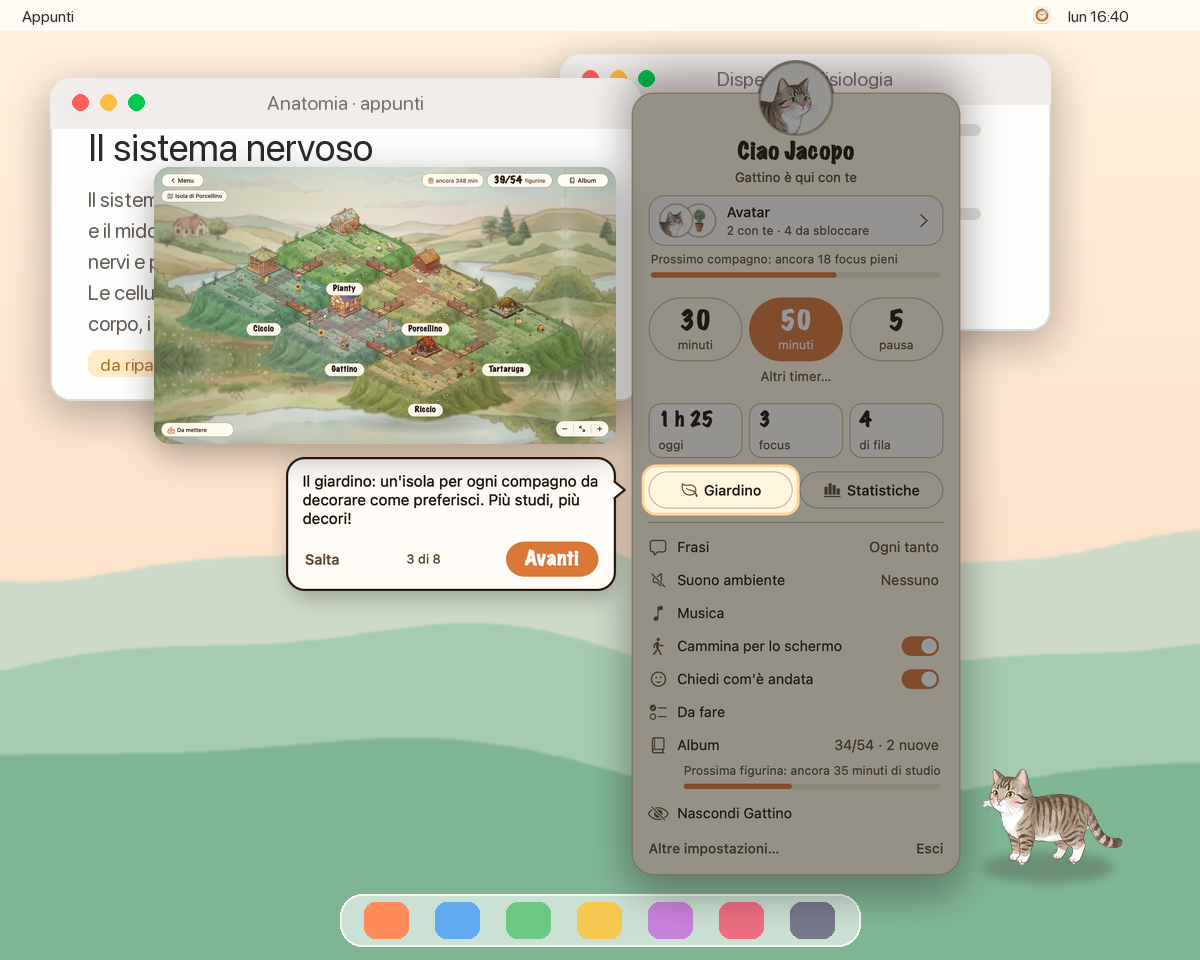
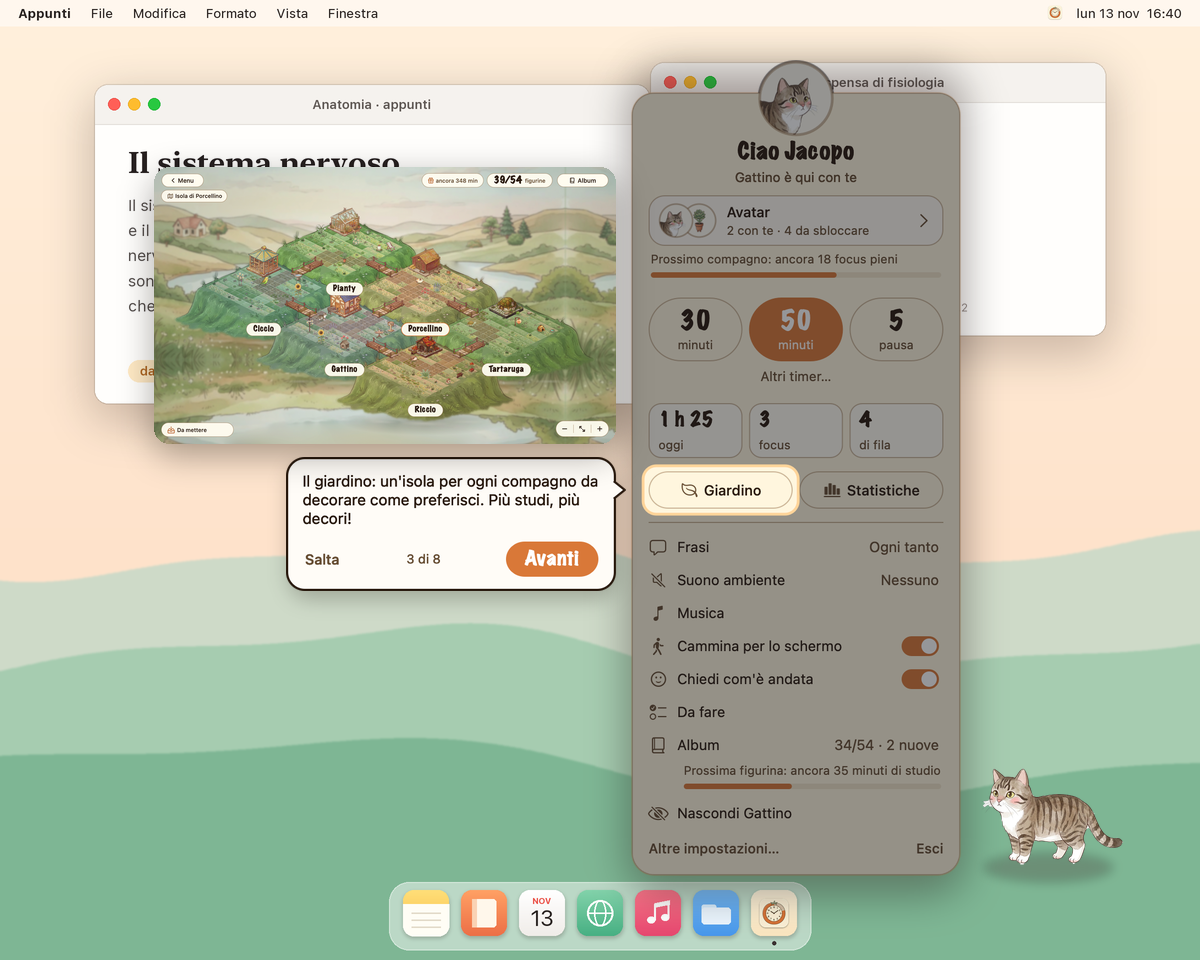
README: il menu e il giro guidato sulla scrivania nuova, la stessa della GIF
La scrivania sta in un posto solo (scrivania_readme.desk, che si allarga alla grandezza dell'immagine): compone_readme.py la usa per
menu-schermata.png e giro.png al posto della vecchia.

diff --git a/tools/compone_readme.py b/tools/compone_readme.py
@@ -106,94 +106,10 @@ def crescita():
 # Il compagno sullo schermo: una scrivania con gli appunti, e lui che cammina, con il fumetto e l'orologio veri dell'app (disegnati da tools/banchi/render-fumetti).
 
 
-def fumetto(n):
-    return Image.open(f"build/readme/bubble{n}.png").convert("RGBA")
-
-
-def gradient(size, top, bottom):
-    from PIL import ImageFilter
-    width, height = size
-    image = Image.new("RGB", size)
-    px = image.load()
-    for y in range(height):
-        t = y / (height - 1)
-        row = tuple(round(top[i] + (bottom[i] - top[i]) * t) for i in range(3))
-        for x in range(width):
-            px[x, y] = row
-    return image
-
-
-import math
-
-
-def wallpaper(W, H):
-    """Uno sfondo morbido, di colline: i colori dell'app, senza niente che distragga."""
-    from PIL import ImageFilter
-    image = gradient((W, H), (255, 240, 220), (253, 216, 190))
-    draw = ImageDraw.Draw(image)
-    layers = [(0.58, (206, 218, 200), 0.0085, 0.9, 20), (0.68, (166, 204, 176), 0.0068, 2.1, 26), (0.80, (126, 182, 148), 0.0052, 3.3, 30)]
-    for base, color, frequency, phase, amplitude in layers:
-        points = [(0, H)]
-        for x in range(0, W + 8, 8):
-            points.append((x, H * base + amplitude * math.sin(x * frequency + phase) + amplitude * 0.4 * math.sin(x * frequency * 2.1 + phase * 1.7)))
-        points.append((W, H))
-        draw.polygon(points, fill=color)
-    return image.filter(ImageFilter.GaussianBlur(1.2))
-
-
-def window(image, box, title, shadow=True):
-    from PIL import ImageFilter
-    x0, y0, x1, y1 = box
-    if shadow:
-        layer = Image.new("RGBA", image.size, (0, 0, 0, 0))
-        ImageDraw.Draw(layer).rounded_rectangle((x0, y0 + 12, x1, y1 + 12), 20, fill=(70, 50, 60, 90))
-        layer = layer.filter(ImageFilter.GaussianBlur(20))
-        image.paste(layer, (0, 0), layer)
-    draw = ImageDraw.Draw(image, "RGBA")
-    draw.rounded_rectangle(box, 20, fill=(253, 253, 252), outline=(222, 218, 214), width=2)
-    draw.rounded_rectangle((x0, y0, x1, y0 + 50), 20, fill=(240, 237, 234))
-    draw.rectangle((x0, y0 + 30, x1, y0 + 50), fill=(240, 237, 234))
-    for k, color in enumerate([(255, 96, 92), (255, 189, 68), (0, 202, 78)]):
-        draw.ellipse((x0 + 22 + k * 28, y0 + 16, x0 + 38 + k * 28, y0 + 32), fill=color)
-    centered(draw, title, (x0 + x1) // 2, y0 + 12, font(TEXT, 20), (120, 112, 108))
-    return draw
-
-
-def desk_scene(W, H, icon_active=False):
-    """La scrivania, senza il compagno: gli appunti davanti, una dispensa dietro, la barra dei menu e il Dock."""
-    from PIL import ImageFilter
-    image = wallpaper(W, H)
-    # la dispensa, dietro
-    back = window(image, (560, 54, 1050, 330), "Dispensa di fisiologia", shadow=True)
-    for k in range(6):
-        back.rounded_rectangle((600, 124 + k * 28, 600 + 380 - (k % 3) * 70, 135 + k * 28), 6, fill=(226, 222, 218))
-    back.rounded_rectangle((600, 290, 760, 314), 8, fill=(232, 226, 214))
-    # gli appunti, davanti
-    front = window(image, (50, 78, 640, 400), "Anatomia · appunti")
-    front.text((88, 124), "Il sistema nervoso", font=ImageFont.truetype("/System/Library/Fonts/SFNS.ttf", 38), fill=(45, 40, 40))
-    lines = ["Il sistema nervoso centrale comprende l'encefalo", "e il midollo spinale. Riceve le informazioni dai", "nervi e prepara le risposte.",
-             "Le cellule principali sono i neuroni: ognuno ha un", "corpo, i dendriti che ricevono i segnali e un assone."]
-    for k, line in enumerate(lines):
-        front.text((88, 186 + k * 31), line, font=font(TEXT, 21), fill=(100, 92, 90))
-    front.rounded_rectangle((88, 350, 238, 376), 10, fill=(255, 235, 200))
-    front.text((100, 353), "da ripassare", font=font(TEXT, 18), fill=(176, 108, 40))
-    # la barra dei menu, con l'icona dell'app
-    draw = ImageDraw.Draw(image, "RGBA")
-    draw.rectangle((0, 0, W, 30), fill=(255, 255, 255, 170))
-    if icon_active:
-        draw.rounded_rectangle((W - 174, 3, W - 142, 27), 6, fill=(60, 60, 70, 70))
-    logo = Image.open("docs/images/logo.png").convert("RGBA").resize((20, 20), Image.LANCZOS)
-    image.paste(logo, (W - 168, 5), logo)
-    draw.text((W - 132, 6), "lun 16:40", font=font(TEXT, 16), fill=(50, 44, 44, 235))
-    draw.text((22, 6), "Appunti", font=font(TEXT, 16), fill=(50, 44, 44, 235))
-    # il Dock
-    dock_w = 520
-    draw.rounded_rectangle(((W - dock_w) // 2, H - 66, (W + dock_w) // 2, H - 14), 22, fill=(255, 255, 255, 150), outline=(255, 255, 255, 200), width=2)
-    colors = [(255, 140, 90), (96, 170, 240), (110, 200, 130), (245, 200, 80), (200, 130, 220), (240, 110, 130), (120, 120, 140)]
-    for k, color in enumerate(colors):
-        cx = (W - dock_w) // 2 + 46 + k * 71
-        draw.rounded_rectangle((cx - 22, H - 58, cx + 22, H - 22), 11, fill=color + (255,))
-    return image
+def desk_scene(W, H):
+    """La scrivania senza il compagno (la stessa della GIF: tools/scrivania_readme.py), alla grandezza di questa immagine."""
+    import scrivania_readme
+    return scrivania_readme.desk((W, H)).resize((W, H), Image.LANCZOS)
 
 
 def scrivania():

diff --git a/tools/scrivania_readme.py b/tools/scrivania_readme.py
@@ -215,27 +215,35 @@ def dock(img):
         icon(img, x0 + 14 + k * (size + gap), y0 + 8, size)
 
 
-def desk():
-    """La scrivania senza il compagno: la dispensa a destra, gli appunti a sinistra, la barra dei menu e il Dock."""
-    img = wallpaper()
-    d = window(img, (600, 62, 1056, 336), "Dispensa di fisiologia")
-    text(d, (628, 120), "Il potenziale d'azione", face(NY, 21, 600), (50, 40, 40))
-    body_lines(d, 628, 156, ["Quando lo stimolo supera la soglia, i canali", "del sodio si aprono e la membrana si",
-                             "depolarizza: il segnale corre lungo l'assone."], size=13.5)
-    neuron(d, 690, 284, 14)
-    text(d, (880, 300), "fig. 3.2", face(SF, 11.5, 400), (150, 140, 136))
-    d = window(img, (44, 84, 600, 404), "Anatomia · appunti")
-    text(d, (78, 144), "Il sistema nervoso", face(NY, 30, 650), (38, 32, 32))
-    body_lines(d, 78, 196, ["Il sistema nervoso centrale comprende l'encefalo", "e il midollo spinale. Riceve le informazioni dai",
-                            "nervi e prepara le risposte. Le cellule principali", "sono i neuroni: ognuno ha un corpo, i dendriti",
-                            "che ricevono i segnali e un assone."])
-    d.rounded_rectangle((s(78), s(360), s(176), s(382)), s(11), fill=(255, 233, 196))
-    text(d, (90, 363), "da ripassare", face(SF, 12.5, 600), (176, 104, 36))
-    d.rounded_rectangle((s(184), s(360), s(258), s(382)), s(11), fill=(220, 236, 226))
-    text(d, (196, 363), "esame", face(SF, 12.5, 600), (60, 130, 90))
-    menubar(img)
-    dock(img)
-    return img
+def desk(size=(1100, 720)):
+    """La scrivania senza il compagno, al doppio della grandezza: la dispensa a destra, gli appunti a sinistra, la barra dei menu e il Dock.
+    È la stessa per tutte le immagini del README (la GIF qui sotto, e la scheda e il giro in compone_readme.py, che sono più grandi:
+    le finestre restano al centro, le colline e il Dock si allargano)."""
+    global W, H
+    saved, (W, H) = (W, H), size
+    try:
+        dx = (W - 1100) / 2
+        img = wallpaper()
+        d = window(img, (600 + dx, 62, 1056 + dx, 336), "Dispensa di fisiologia")
+        text(d, (628 + dx, 120), "Il potenziale d'azione", face(NY, 21, 600), (50, 40, 40))
+        body_lines(d, 628 + dx, 156, ["Quando lo stimolo supera la soglia, i canali", "del sodio si aprono e la membrana si",
+                                      "depolarizza: il segnale corre lungo l'assone."], size=13.5)
+        neuron(d, 690 + dx, 284, 14)
+        text(d, (880 + dx, 300), "fig. 3.2", face(SF, 11.5, 400), (150, 140, 136))
+        d = window(img, (44 + dx, 84, 600 + dx, 404), "Anatomia · appunti")
+        text(d, (78 + dx, 144), "Il sistema nervoso", face(NY, 30, 650), (38, 32, 32))
+        body_lines(d, 78 + dx, 196, ["Il sistema nervoso centrale comprende l'encefalo", "e il midollo spinale. Riceve le informazioni dai",
+                                     "nervi e prepara le risposte. Le cellule principali", "sono i neuroni: ognuno ha un corpo, i dendriti",
+                                     "che ricevono i segnali e un assone."])
+        d.rounded_rectangle((s(78 + dx), s(360), s(176 + dx), s(382)), s(11), fill=(255, 233, 196))
+        text(d, (90 + dx, 363), "da ripassare", face(SF, 12.5, 600), (176, 104, 36))
+        d.rounded_rectangle((s(184 + dx), s(360), s(258 + dx), s(382)), s(11), fill=(220, 236, 226))
+        text(d, (196 + dx, 363), "esame", face(SF, 12.5, 600), (60, 130, 90))
+        menubar(img)
+        dock(img)
+        return img
+    finally:
+        W, H = saved
 
 
 # ---------------------------------------------------------------------------------------------------------------------------------------------------

diff --git a/ARCHITECTURE.md b/ARCHITECTURE.md
@@ -203,7 +203,7 @@ FocusFriends/
 │   │   └── cutout_interazioni.py the «animal + thing» scenes (2×2 Gemini sheets on magenta) → assets/interazioni/<pet>-<item>.png, and where the thing sits in each scene (GardenInteractions)
 │   ├── banchi/                   benches that draw the real Mac views off screen from a data folder, for comparisons and screenshots: render-giardino.sh, render-album.sh, render-scheda.sh (each with its main.swift), render-fumetti/ (used by compone-readme.sh)
 │   ├── genera-pets.sh, genera-pets/   windows/data/pets.json from Pet.swift
-│   ├── compone-readme.sh, compone_readme.py   the README pictures from the app's drawings and its real bubbles; scrivania_readme.py draws the desk GIF (drawn at 2×: the companion walks, speaks, the clock rolls up like `TimerView.reveal` and unrolls when the cursor rests on the companion, closing 1 s after it leaves, as in `Pomodoro.evaluateVisibility`)
+│   ├── compone-readme.sh, compone_readme.py   the README pictures from the app's drawings and its real bubbles; scrivania_readme.py draws the desk shared by the three desk pictures (the GIF, `menu-schermata.png`, `giro.png`) and the GIF itself (drawn at 2×: the companion walks, speaks, the clock rolls up like `TimerView.reveal` and unrolls when the cursor rests on the companion, closing 1 s after it leaves, as in `Pomodoro.evaluateVisibility`)
 │   └── make_icon.py               builds AppIcon.png/.icns and docs/images/logo.png from assets/logo_original.png
 ├── assets/                       source and processed artwork, phrase files, music (see build.sh for what is bundled)
 │   ├── AppIcon.icns / AppIcon.png, logo_original.png, bubble.png / bubble_original.png
